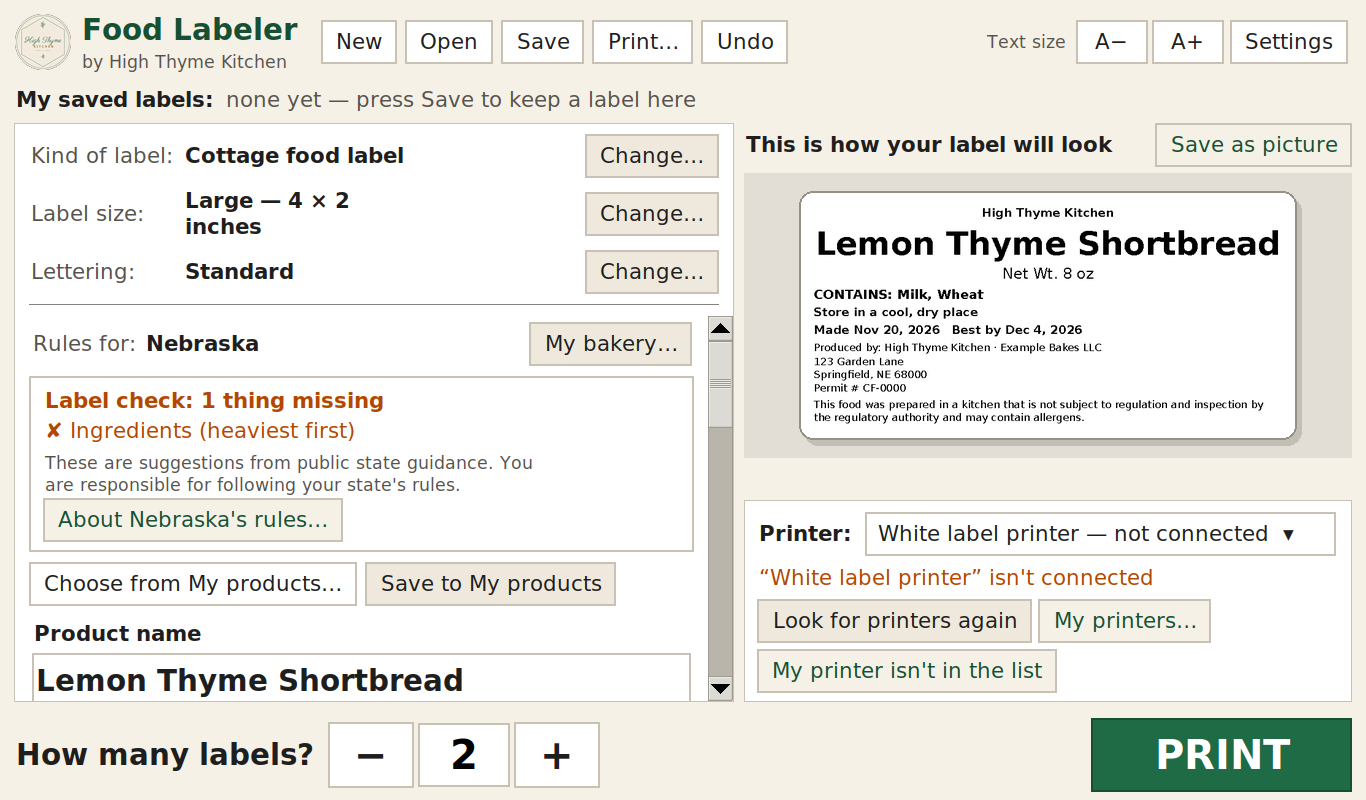
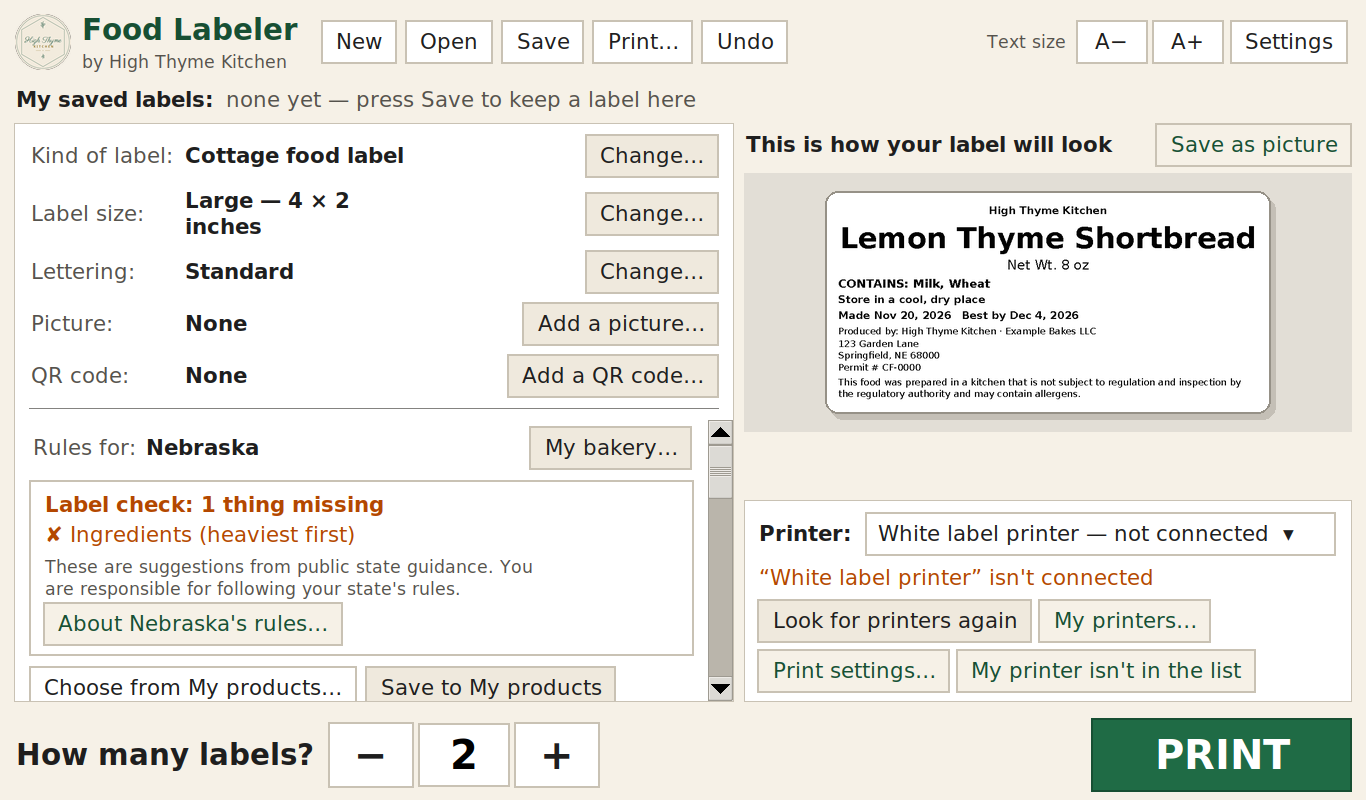
Fit new windows on laptop screens, crisper 300 dpi text, screenshots (1.2.0)

Changed region(s): [[0.0, 0.375, 0.5534, 0.875], [0.5842, 0.2188, 0.9531, 0.5625], [0.5534, 0.8125, 0.9224, 0.875]]

diff --git a/food_labeler/picture_dialogs.py b/food_labeler/picture_dialogs.py
@@ -117,21 +117,28 @@ class PictureDialog(Modal):
         self.auto = pic["threshold"] is None
         self.brightness = tk.IntVar(value=pic["brightness"])
         self.contrast = tk.IntVar(value=pic["contrast"])
-        self.invert = Toggle(left, "Swap black and white", self._changed, pic["invert"])
-        self.invert.pack(anchor="w", pady=(8, 2))
-        self.remove_bg = Toggle(left, "Remove the background (light parts become paper)",
-                                self._changed, pic["remove_bg"])
-        self.remove_bg.pack(anchor="w", pady=2)
 
         tk.Label(right, text="This is exactly what prints", font="ui_bold", bg=BG,
                  fg=INK).pack(anchor="w")
         self.preview = tk.Label(right, bg=BG)
         self.preview.pack(pady=(6, 4))
-        self.zoom = tk.Label(right, bg=BG)
-        self.zoom.pack(pady=(4, 4))
+        under = tk.Frame(right, bg=BG)
+        under.pack(anchor="w", fill="x", pady=(4, 4))
+        self.zoom = tk.Label(under, bg=BG)
+        self.zoom.pack(side="left", anchor="n")
+        toggles = tk.Frame(under, bg=BG)
+        toggles.pack(side="left", anchor="n", padx=(14, 0))
         self.msg = tk.Label(right, text="", font="ui_bold", bg=BG, fg=WARN, wraplength=PREVIEW_W,
                             justify="left")
         self.msg.pack(anchor="w")
+        # beside the close-up (not in the left column) so the window fits a laptop screen
+        self.invert = Toggle(toggles, "Swap black and white", self._changed, pic["invert"])
+        self.invert.pack(anchor="w", pady=(0, 4))
+        self.remove_bg = Toggle(toggles, "Remove the background", self._changed,
+                                pic["remove_bg"])
+        self.remove_bg.pack(anchor="w")
+        tk.Label(toggles, text="(light parts become paper)", font="small", bg=BG,
+                 fg=MUTED).pack(anchor="w")
 
         row = tk.Frame(b, bg=BG)
         row.pack(fill="x", pady=(16, 0))
@@ -254,8 +261,8 @@ class PictureDialog(Modal):
         self.preview.configure(image=ph)
         zoom = None
         for (_x, _y, pic) in res.layout.images[:1]:
-            k = min(1.0, PREVIEW_W / max(1, pic.width), 200 / max(1, pic.height))
-            k = max(k, min(3.0, 200 / max(1, pic.height)))
+            k = min(1.0, 160 / max(1, pic.width), 160 / max(1, pic.height))
+            k = max(k, min(3.0, 160 / max(1, pic.height)))
             zoom = render.scaled(pic, k)
         if zoom is not None:
             zph = ImageTk.PhotoImage(zoom)
@@ -373,17 +380,10 @@ class QrDialog(Modal):
         for text in ("Scan for our menu", "Scan for ingredients", "Scan to reorder"):
             button(chips, text, lambda t=text: self.caption.set(t), "chip").pack(
                 side="left", padx=(0, 4))
-        _heading(left, "Where does it go?")
-        self.place = tk.StringVar(value=qr["place"])
-        for p in qrcodes.PLACES:
-            tk.Radiobutton(left, text=pictures.PLACES[p], variable=self.place, value=p,
-                           font="ui", bg=BG, activebackground=BG,
-                           command=self._changed).pack(anchor="w")
         _heading(left, "How big?")
         self.size = tk.IntVar(value=qr["size"])
         _scale(left, self.size, *qrcodes.SIZE_RANGE, "Smaller", "Bigger",
                command=self._changed).pack(anchor="w")
-
         tk.Label(right, text="This is exactly what prints", font="ui_bold", bg=BG,
                  fg=INK).pack(anchor="w")
         self.preview = tk.Label(right, bg=BG)
@@ -394,6 +394,16 @@ class QrDialog(Modal):
         self.msg = tk.Label(right, text="", font="ui_bold", bg=BG, fg=WARN, wraplength=PREVIEW_W,
                             justify="left")
         self.msg.pack(anchor="w", pady=(6, 0))
+        _heading(right, "Where does it go?")
+        self.place = tk.StringVar(value=qr["place"])
+        grid = tk.Frame(right, bg=BG)
+        grid.pack(anchor="w")
+        for n, p in enumerate(qrcodes.PLACES):   # two columns, to keep the window short
+            tk.Radiobutton(grid, text=pictures.PLACES[p], variable=self.place, value=p,
+                           font="ui", bg=BG, activebackground=BG,
+                           command=self._changed).grid(row=n // 2, column=n % 2, sticky="w",
+                                                       padx=(0, 16))
+
 
         row = tk.Frame(b, bg=BG)
         row.pack(fill="x", pady=(16, 0))
@@ -479,6 +489,14 @@ class PrintSettingsDialog(Modal):
         tk.Label(b, text="Remembered for this printer. If you are not sure, leave them as "
                  "they are.", font="small", bg=BG, fg=MUTED).pack(anchor="w")
 
+        # two columns, so the window fits a laptop screen
+        cols = tk.Frame(b, bg=BG)
+        cols.pack(fill="x")
+        b = tk.Frame(cols, bg=BG)
+        b.pack(side="left", anchor="n", padx=(0, 30))
+        right = tk.Frame(cols, bg=BG)
+        right.pack(side="left", anchor="n")
+
         _heading(b, "Darkness")
         lo, hi = printsettings.ZPL_DARKNESS if kind == "zpl" else printsettings.TSPL_DARKNESS
         self.dark = tk.IntVar(value=printsettings.effective_darkness(kind, st, ps, adv, fam))
@@ -500,6 +518,7 @@ class PrintSettingsDialog(Modal):
                              None, ps.get("upside_down", False))
         self.upside.pack(anchor="w", pady=(6, 0))
 
+        b = right
         _heading(b, "Labels in the printer")
         self.media = tk.StringVar(value=ps.get("media", "gap"))
         for k, text in printsettings.MEDIA.items():
@@ -509,7 +528,7 @@ class PrintSettingsDialog(Modal):
         if kind == "tspl":
             row = tk.Frame(b, bg=BG)
             row.pack(anchor="w", pady=(4, 0))
-            tk.Label(row, text=f"Space between {st.name} labels (mm):", font="ui",
+            tk.Label(row, text="Gap between labels (mm):", font="ui",
                      bg=BG).pack(side="left")
             tk.Entry(row, textvariable=self.gap, font="ui", width=6).pack(side="left", padx=6)
 
@@ -524,7 +543,7 @@ class PrintSettingsDialog(Modal):
         button(row, "Feed one blank label", self._feed, "chip").pack(side="left", padx=(0, 6))
         button(row, "Darkness test", self._test, "chip").pack(side="left")
 
-        row = tk.Frame(b, bg=BG)
+        row = tk.Frame(self.body, bg=BG)
         row.pack(fill="x", pady=(14, 0))
         button(row, "Save", self._save, "primary").pack(side="left", padx=(0, 8))
         button(row, "Reset to normal", self._reset).pack(side="left")

diff --git a/food_labeler/render.py b/food_labeler/render.py
@@ -40,12 +40,15 @@ class RenderResult:
         return self.layout.message + extra
 
 
-def draw_layout(lay: Layout, w: int, h: int) -> Image.Image:
+def draw_layout(lay: Layout, w: int, h: int, smooth: bool = False) -> Image.Image:
     """Draw straight into a 1-bit image at final size.
 
     We compared this with drawing in greyscale and thresholding at 128: at
-    12-dot text, direct 1-bit drawing (FreeType's hinted monochrome mode) gave
-    more even strokes and spacing, so that is what we use.
+    12-dot text on 203 dpi, direct 1-bit drawing (FreeType's hinted monochrome
+    mode) gave more even strokes and spacing, so that is what we use there.
+    At 300 dpi the hinted mode rounds each letter's position on its own and
+    can leave a visible gap inside a word ("Prod uced"), so with ``smooth``
+    the text is drawn in greyscale and thresholded instead.
     """
     img = Image.new("1", (w, h), 1)
     for (x, y, pic) in lay.images:          # pictures, already black and white
@@ -53,9 +56,17 @@ def draw_layout(lay: Layout, w: int, h: int) -> Image.Image:
     d = ImageDraw.Draw(img)
     if lay.qr_box:                           # the QR code's quiet zone stays paper
         d.rectangle(lay.qr_box, fill=1)
-    for ln in lay.lines:
-        d.text((ln.x, ln.y), ln.text, font=templates.font(ln.size, ln.bold, ln.font), fill=0,
-               anchor="la")
+    if smooth and lay.lines:
+        grey = Image.new("L", (w, h), 255)
+        gd = ImageDraw.Draw(grey)
+        for ln in lay.lines:
+            gd.text((ln.x, ln.y), ln.text, font=templates.font(ln.size, ln.bold, ln.font),
+                    fill=0, anchor="la")
+        img.paste(0, (0, 0), grey.point(lambda v: 255 if v < 128 else 0))
+    else:
+        for ln in lay.lines:
+            d.text((ln.x, ln.y), ln.text, font=templates.font(ln.size, ln.bold, ln.font),
+                   fill=0, anchor="la")
     if lay.qr:
         qx, qy, mod, matrix = lay.qr
         for r, row in enumerate(matrix):
@@ -73,7 +84,8 @@ def render(doc, ctx: dict | None = None, dpi: int = stocks.BASE_DPI) -> RenderRe
     size and only gets more dots. It is never stored in the document."""
     stock = stocks.get(doc.stock, dpi)
     lay = templates.layout(doc, stock, ctx or {})
-    return RenderResult(draw_layout(lay, stock.w, stock.h), lay, stock)
+    return RenderResult(draw_layout(lay, stock.w, stock.h, stock.dpi > stocks.BASE_DPI),
+                        lay, stock)
 
 
 def render_text_label(lines: list[str], stock: stocks.Stock) -> Image.Image:
@@ -86,7 +98,7 @@ def render_text_label(lines: list[str], stock: stocks.Stock) -> Image.Image:
     for b in blocks:
         b.pref = base * (0.24 if b.bold else 0.15)
     lay = templates.fit(blocks, region, "center")
-    return draw_layout(lay, stock.w, stock.h)
+    return draw_layout(lay, stock.w, stock.h, stock.dpi > stocks.BASE_DPI)
 
 
 # ---------------------------------------------------------------------------

diff --git a/tools/screenshot.py b/tools/screenshot.py
@@ -223,6 +223,54 @@ def get_fonts():
     return True
 
 
+@step
+def picture_and_qr():
+    from PIL import Image
+    from food_labeler import pictures
+    app.doc.lettering = {}
+    app.doc.set_template("simple")
+    app.doc.fields.update(food="Lemon Thyme Shortbread", contains="Milk, Wheat",
+                          note="Keep refrigerated", made_by="")
+    logo = Image.open(ROOT / "food_labeler" / "assets" / "icon.png")
+    app.doc.picture = pictures.new_picture(pictures.normalise(logo), "Our logo",
+                                           place="left", size=70)
+    app.doc.qr = {"what": "link", "value": "https://example.com/menu",
+                  "caption": "Scan for our menu", "place": "right", "size": 45}
+    app._sync_ui_from_doc()
+    root.after(900, lambda: (grab("screenshot-picture-qr.png"), nxt()))
+    return True
+
+
+@step
+def picture_dialog():
+    from food_labeler.picture_dialogs import PictureDialog
+    d = PictureDialog(root, app)
+    d.deiconify()
+    root.after(1200, lambda: (grab("screenshot-picture.png", d), d.destroy(), nxt()))
+    return True
+
+
+@step
+def qr_dialog():
+    from food_labeler.picture_dialogs import QrDialog
+    d = QrDialog(root, app)
+    d.deiconify()
+    root.after(900, lambda: (grab("screenshot-qr.png", d), d.destroy(), nxt()))
+    return True
+
+
+@step
+def print_settings():
+    from food_labeler import printers
+    from food_labeler.picture_dialogs import PrintSettingsDialog
+    p = printers.Printer(id="usb:1-1.4", kind="tspl", model="4B-LP610BT", method="device",
+                         target="/dev/usb/lp0", port="USB port 1-1.4", vidpid="0483:2025")
+    d = PrintSettingsDialog(root, app, p)
+    d.deiconify()
+    root.after(900, lambda: (grab("screenshot-print-settings.png", d), d.destroy(), nxt()))
+    return True
+
+
 def nxt():
     if not steps:
         root.after(100, root.destroy)

diff --git a/food_labeler/app.py b/food_labeler/app.py
@@ -255,10 +255,13 @@ class App:
         button(prow, "Look for printers again", lambda: self.rescan_printers(user=True),
                "chip").pack(side="left", padx=(0, 6))
         button(prow, "My printers\u2026", self.my_printers, "quiet").pack(side="left")
-        button(prow, "Print settings\u2026", self.print_settings, "quiet").pack(side="left",
-                                                                                padx=(6, 0))
-        button(pp, "My printer isn't in the list", self.usb_devices, "quiet").grid(
-            row=3, column=0, columnspan=2, sticky="w", pady=(6, 0))
+        # second row, so no button gets cut off on a laptop-size window
+        prow2 = tk.Frame(pp, bg=PANEL)
+        prow2.grid(row=3, column=0, columnspan=2, sticky="w", pady=(6, 0))
+        button(prow2, "Print settings\u2026", self.print_settings, "quiet").pack(
+            side="left", padx=(0, 6))
+        button(prow2, "My printer isn't in the list", self.usb_devices, "quiet").pack(
+            side="left")
 
         # --- bottom: copies + PRINT
         bottom = tk.Frame(r, bg=BG, padx=14, pady=8)

diff --git a/README.md b/README.md
@@ -106,6 +106,9 @@ Get the newest version from the **[Releases page](../../releases/latest)**:
 - **Undo** takes back the last change.
 - **A−** and **A+** make all the writing on the screen smaller or bigger.
 - **Save as picture** makes a picture of the label to send to someone.
+
+  ![A label with a logo and a QR code](docs/screenshot-picture-qr.png)
+
 - **Picture → Add a picture…** puts your logo (or any picture) on the label:
   above the name, on the left or right side, or in the top-left corner, as
   big as you like. Thermal printers only print black, so you choose how it
@@ -114,6 +117,8 @@ Get the newest version from the **[Releases page](../../releases/latest)**:
   what prints. **Keep in My pictures** makes your logo one click next time.
   The picture is saved inside the label file. If there isn't room, the
   writing your state asks for keeps its size and the picture gets smaller.
+
+  ![Adding a picture](docs/screenshot-picture.png)
 - **Kind of label → Picture label** is one big picture (a logo sticker or a
   round seal) with a line of words under it if you want.
 - **QR code → Add a QR code…** adds a code people can scan with their
@@ -122,6 +127,8 @@ Get the newest version from the **[Releases page](../../releases/latest)**:
   What the code holds is shown in small print under the label picture. If
   the code would be too small to scan, Food Labeler says so instead of
   printing it.
+
+  ![Adding a QR code](docs/screenshot-qr.png)
 - If the writing doesn't fit, a message tells you which part is too long.
   Use shorter words or a bigger label.
 - Your work is kept safe automatically, even if the computer switches off.
@@ -215,7 +222,7 @@ Details for helpers: [docs/cottage-rules.md](docs/cottage-rules.md).
 - **My printers…** lets you give printers names like *White label printer*.
   **Which one is it?** prints a tiny label saying which printer it is.
 - **Look for printers again** if you just plugged one in.
-- **Print settings…** (next to *My printers…*) is kept for each printer:
+- **Print settings…** (under the printer list) is kept for each printer:
   *Darkness* (lighter or darker), *Speed* (slower is sharper), *Nudge the
   print* if it isn't in the middle of the label, *Print upside down*, the
   kind of labels in the printer (with gaps, with black marks, or a
@@ -223,6 +230,8 @@ Details for helpers: [docs/cottage-rules.md](docs/cottage-rules.md).
   **Darkness test** prints 3 labels (lighter, now, darker) so you can pick
   the best; **Feed one blank label** moves the roll on. **Reset to normal**
   puts everything back.
+
+  ![Print settings](docs/screenshot-print-settings.png)
 - **Sharpness** (in **My printers…**): most label printers are *Normal
   (203 dpi)*, and Food Labeler picks that for you. Only change it to
   *Sharp (300 dpi)* if your printer (or its box) says 300 dpi. Your labels
@@ -237,7 +246,7 @@ Go to **Settings → Advanced…**, tick **Invert colours**, and press **Save**.
 Some printers use the opposite colours; this switch fixes that.
 
 **The printing is too pale or too dark.**
-Press **Print settings…** (next to *My printers…*) and move *Darkness*
+Press **Print settings…** (under the printer list) and move *Darkness*
 towards *Darker* or *Lighter*, then **Save**. Not sure which is best? Press
 **Darkness test**.
 

diff --git a/CHANGELOG.md b/CHANGELOG.md
@@ -4,7 +4,7 @@ All notable changes to Food Labeler are listed here. Version numbers follow
 [Semantic Versioning](https://semver.org/); the number itself lives in
 `food_labeler/__init__.py`.
 
-## 1.2.0 — unreleased
+## 1.2.0 — 2026-11-21
 
 Lettering: choose the fonts on your labels.
 
@@ -76,6 +76,11 @@ Pictures, QR codes and print settings.
   or *Feed a little extra*. **Darkness test** (3 labels, only when you press
   it) and **Feed one blank label**. **Reset to normal** puts it all back.
   Nothing changes for printers whose settings you never touch.
+- The Picture, QR code and Print settings windows fit a laptop screen, and
+  every button under the printer list is fully visible.
+- At 300 dpi, letters no longer show a small gap inside words.
+- Closing a window that was opened from another window gives the click lock
+  back to the window underneath.
 
 ## 1.1.1 — 2026-11-20
 
